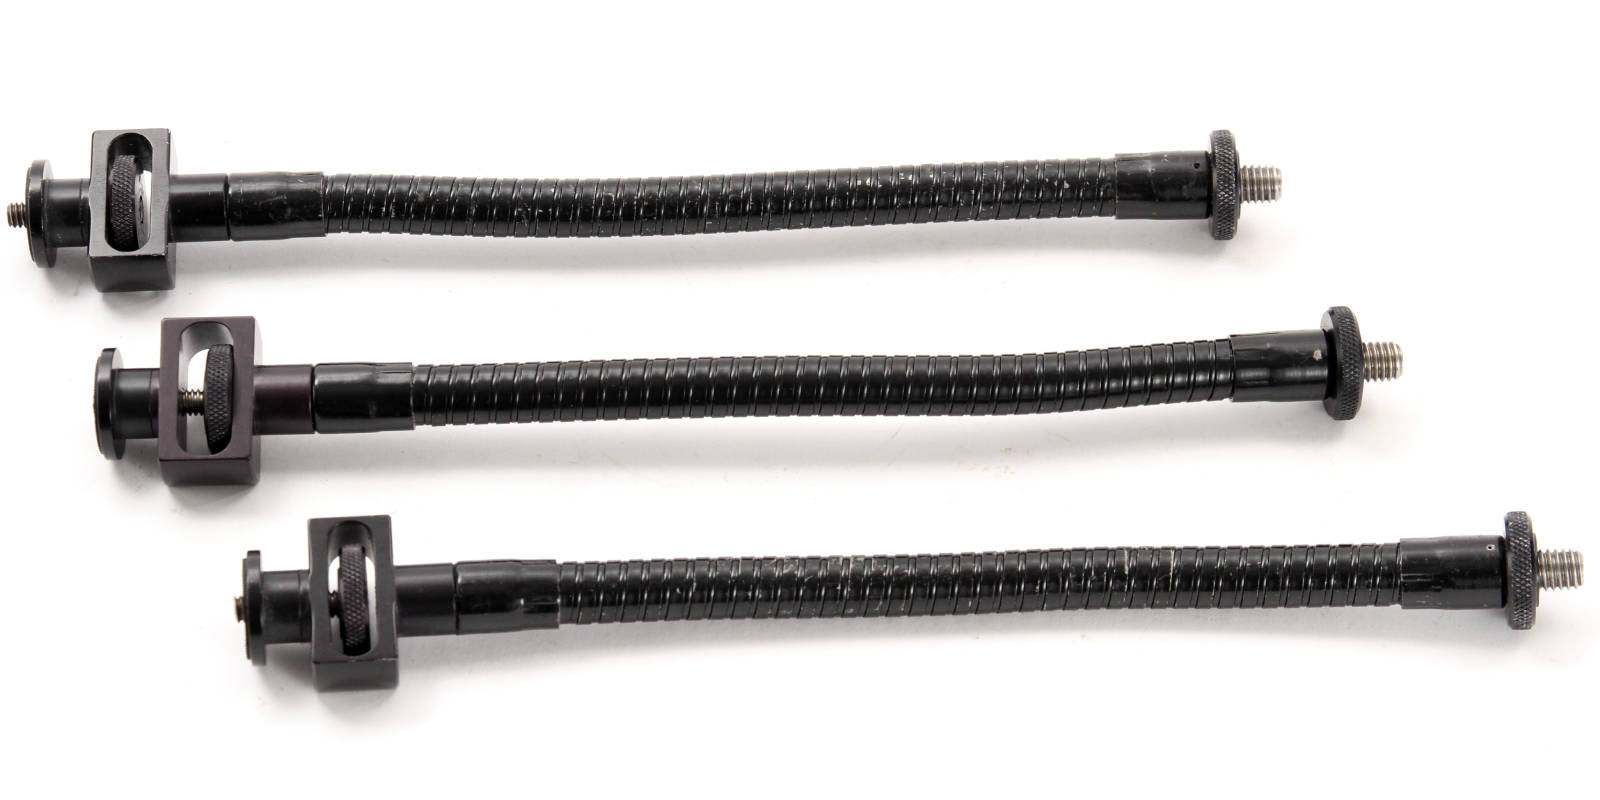
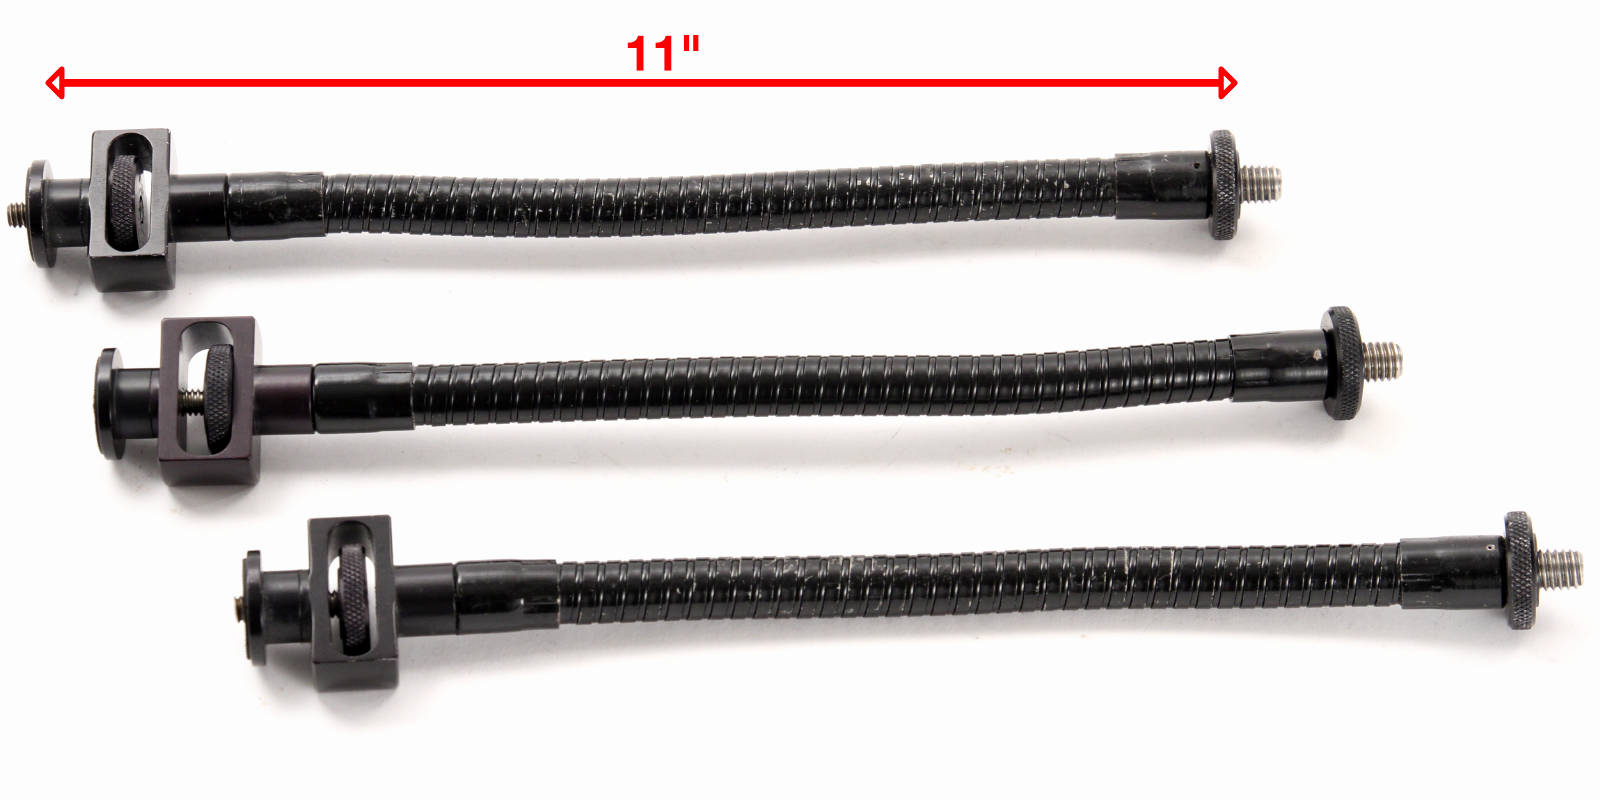
CSE flex arm updates

Changed region(s): [[0.0312, 0.0312, 0.7812, 0.125]]

diff --git a/usedaks.html b/usedaks.html
@@ -647,7 +647,7 @@
 				<li>Flexible accessory mounting arm</li>
 				<li>&frac38;-16 and &frac14;-20 threaded mounting studs</li>
 				<li>Suitable for monitors and other camera accessories</li>
-				<li>(3x) 13&quot; arms available</li>
+				<li>(3x) 11&quot; arms available</li>
 				<li>(1x) 18&quot; arm with MagLite Mini holder available</li>
 			</ul>
 			<a class="used-inquire" href="mailto:info@strattoncamera.com?subject=Used%20equipment%20inquiry%20CSE%20Flex%20Mount"> Inquire about this item </a> 
